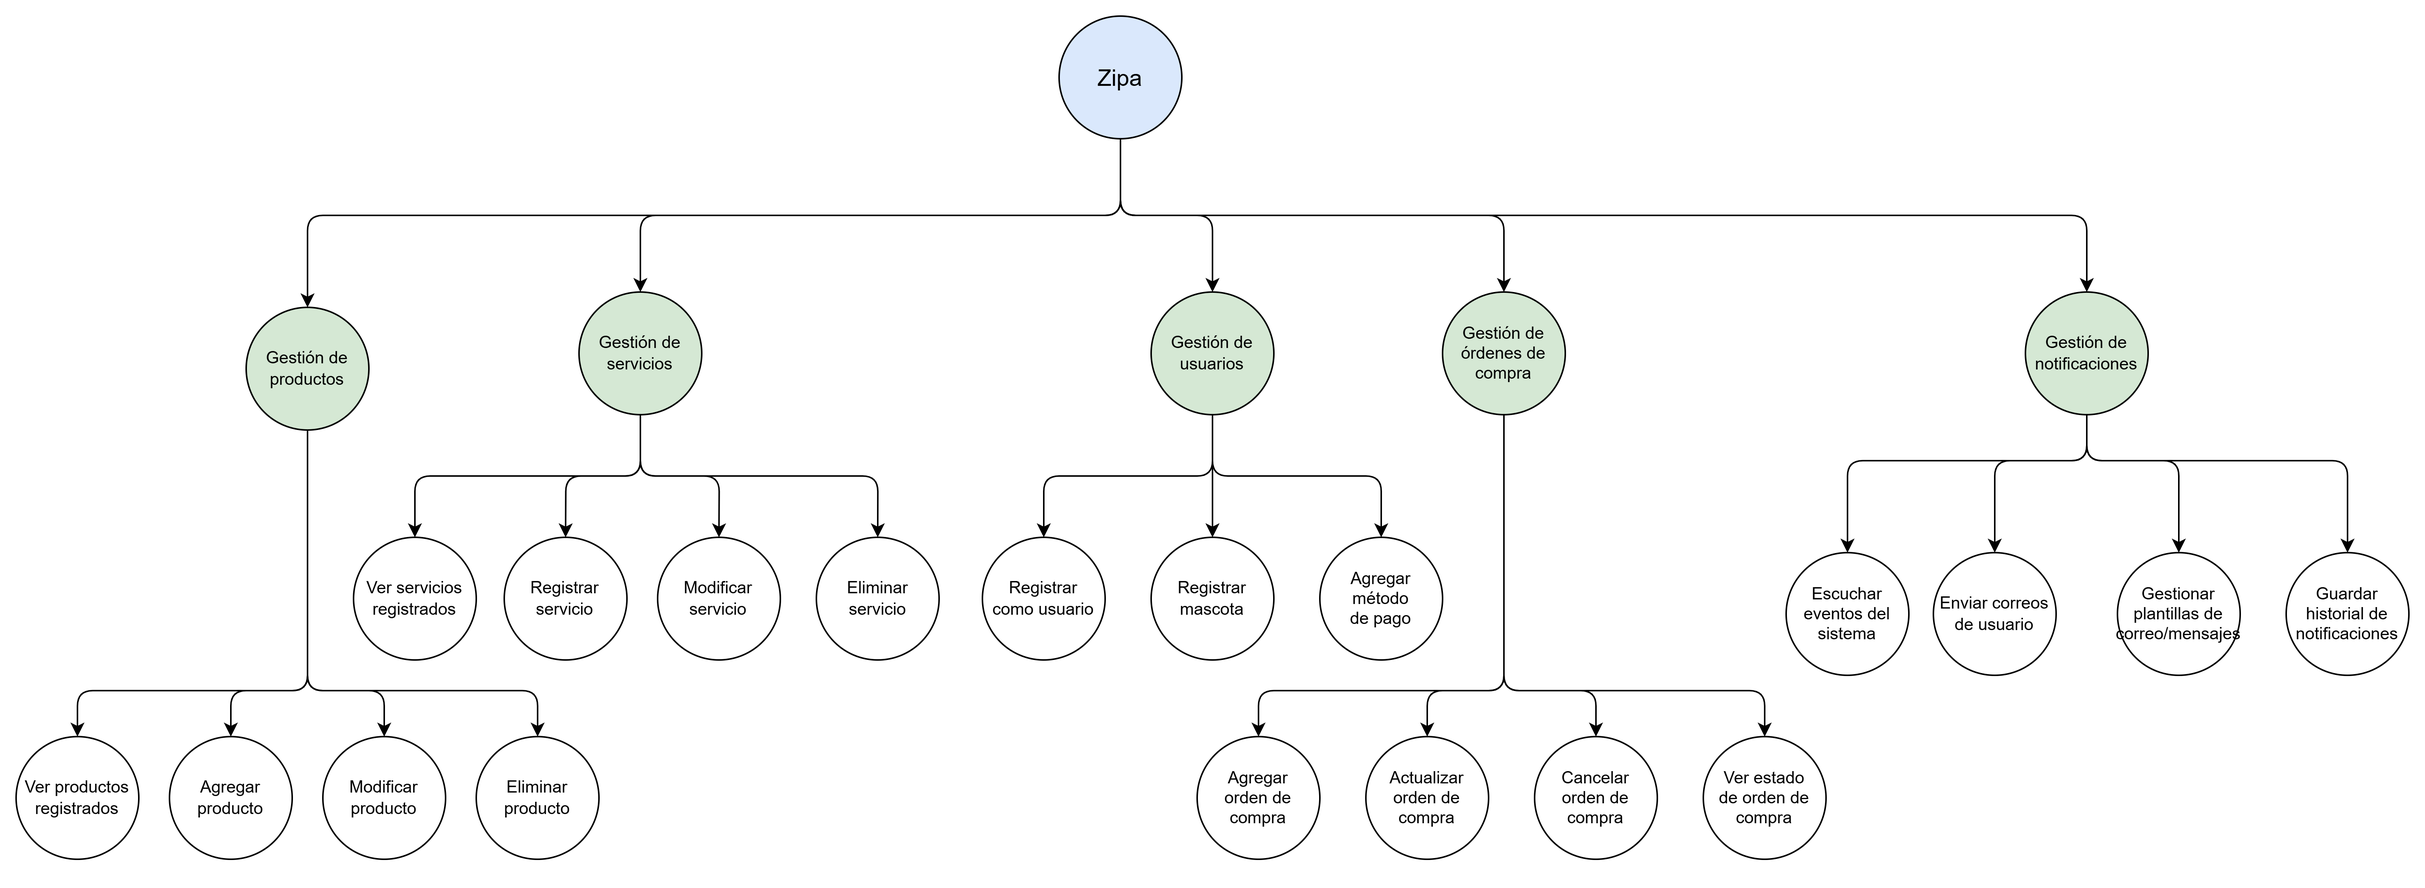
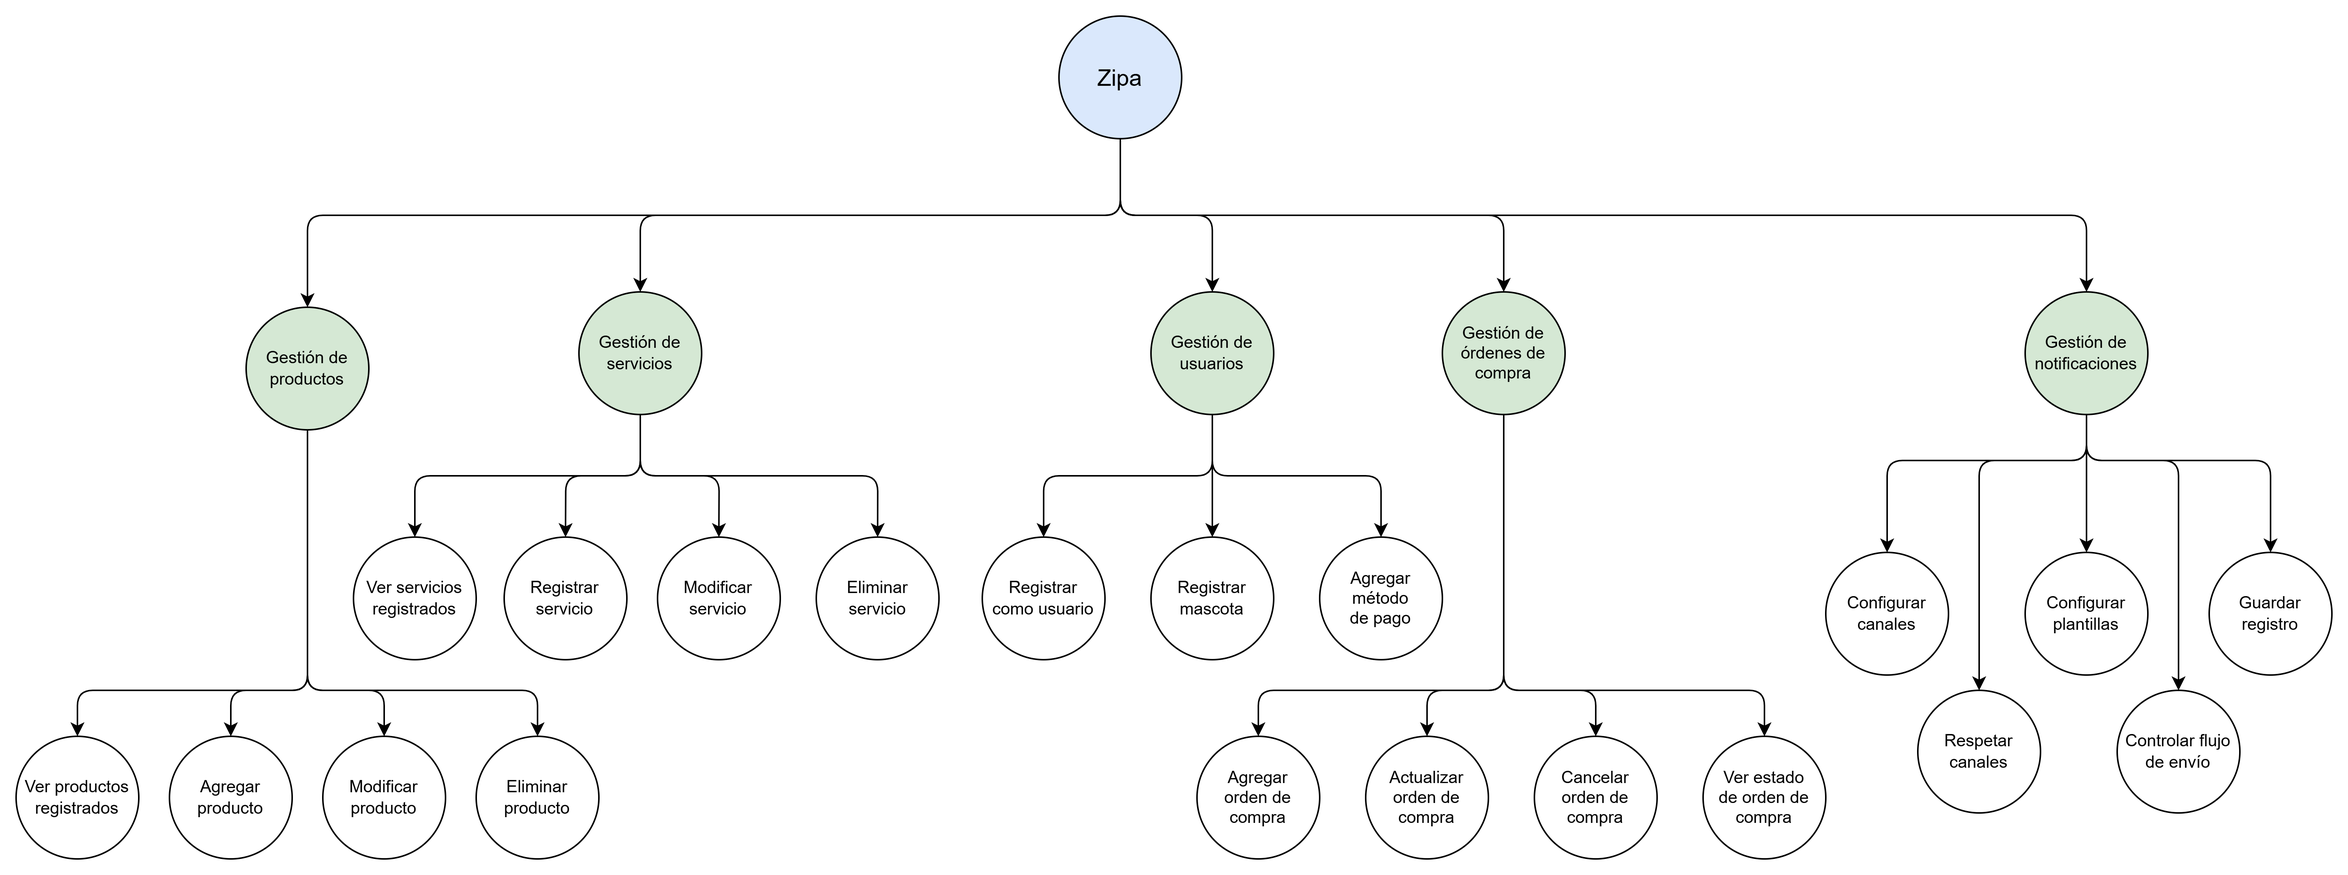
Update README.md to prototype 3 version

diff --git a/README.md b/README.md
@@ -1,205 +1,117 @@
 <div style="display: flex; justify-content: center; align-items: center;">
-  <img src="assets/Logo.png" alt="Mi logo" style="width:150px; margin-right:20px;">
+  <img src="assets/ZipaLogo.png" alt="Mi logo" style="width:150px; margin-right:20px;">
+  <h1 style="margin: 0;">Prototipo 3 - Atributos de calidad, parte 1</h2>
 </div>
 
 # Zipa: Tienda de productos y servicios para mascotas (PetShop)
+
 ## Equipo 2D
 - Diego Humberto Lavado González
+- Victor Manuel Torres Alonso
 - Fabián Alejandro Torres Ramos
 - Juan Camilo Daza Gutiérrez
 - Santiago Alfonso Pineda Ceballos
-- Victor Manuel Torres Alonso
 
 ## Descripción general
-El sistema se propone como una plataforma para la gestión de una tienda de mascotas en línea. Permite a los usuarios visualizar y crear órdenes de compra/agendamiento para una variedad de productos y servicios de veterinaria que los dueños de la tienda deseen ofrecer.
+El sistema se propone como una plataforma para la gestión de una tienda de mascotas en línea. Permite a los usuarios visualizar y crear órdenes de compra de productos y agendamiento de servicios, dentro de la variedad que hay en la tienda veterinaria, que sus propietarios deseen ofrecer.
 
-Se contempla para este prototipo la administración de perfiles de usuario, la gestión de inventario de la tienda, la gestión de servicios como peluquería, baño, corte de uñas, etc., la creación de órdenes de compra por parte de usuarios y el control de notificaciones al usuario en caso de cambios en inventario o disponibilidad. Cuenta con interfaz de usuario tanto web como móvil.
+Se contempla para este tercer prototipo la implementación de varios requerimientos no funcionales, principalmente en lo concerniente a calidad y seguridad.  En relación a las funcionalidades de seguridad del sistema ZIPA se han incorporado los patrones como canal seguro, proxy inverso, segmentación a nivel de red y firewall de aplicaciones web.
 
-## Descripción de arquitectura
-El siguiente es el rediseño de la arquitectura del proyecto ZIPA expresado en las 4 vistas requeridas de:
-1. Componentes y Conectores
-2. Despliegue
-3. Capas
-4. Descomposición
+En relación a atributos de calidad se ha incorporado un balanceador de carga mediante software basado en el algoritmo de round-robin y se han realizado varias pruebas de carga y estrés al sistema ZIPA.
 
-En cuanto a lenguajes de programación de propósito general se incorporaron los siguientes:
-- TypeScript para la mayoría de componentes y el front-end web
-- Go para el componente Zipa_OrdenesCompra
-- Python para el componente orquestador (API Gateway)
-- Kotlin para el front-end móvil
 
-El front-end web implementa SSR (Server-Side Rendering) mediante el framework de Nuxt, el cual automáticamente utiliza Vue.js como una capa adicional de renderizado al cliente y la cual se _hidrata_ al recibir interacciones.
+##  Elementos arquitectónicos
+### Estructura de componentes y conectores.
 
-# Arquitectura
 
-## Vista de componentes y conectores
 <div style="display: flex; justify-content: center; align-items: center;">
   <img src="assets/C&C_view.png" style="width:1500px;">
 </div>
 
-### Estilo Arquitectónico
-Se hace uso de una arquitectura basada en SOFEA, que divide el sistema en servicios, con su respectiva separación entre frontend y backend. En concreto este prototipo implementa los dos servicios esenciales, **inventario** y **servicios**, incluyendo frontend, backend y bases de datos. Dichos componentes están resaltados en **verde** en el diagrama.
+### Descripción de los elementos arquitectónicos y sus relaciones.
 
+A nivel de presentación se tiene clientes web y móvil (Zipa_UI, Zipa_MobileUI) que se conectan por HTTP al borde, exponiendo la interfaz de usuario y consumiendo APIs; actúan como consumidores de servicios REST.
+En seguridad hay un proxy inverso (Zipa_ReverseProxy) que centraliza TLS/terminación y enrutamiento hacia el Zipa_APIGateway, aplicando políticas de seguridad y balanceo.
+Como puerta de enlace se tiene a Zipa_APIGateway que orquesta llamadas sincronicas HTTP/REST hacia los servicios de dominio (Inventario, Servicios, Notificaciones, Auth, OrdenesCompra) y normaliza contratos y versiones.
+En el componente asíncrono se tienen servicios independientes que implementan lógica de negocio y publican/consumen eventos vía Zipa_Broker para notificaciones y desacoplamiento eventual.
+En persistencia cada servicio tiene su almacenamiento dedicado (relacional o documental) que incluye Redis para tokens, garantizando propiedad de datos, escalabilidad y autonomía de despliegue.
 
-### Identificación de elementos arquitectónicos
-- 5 Componentes y 4 conectores
+### Descripción de los estilos arquitectónicos y patrones usados.
 
+Servicios SOA autónomos y acoplados débilmente con responsabilidad definida por dominio y almacenamiento propio.
+Arquitectura en capas (presentación → gateway → lógica → datos) con proxy inverso y API Gateway para enrutamiento, seguridad y agregación.
+Patrón broker para eventos asíncronos, notificaciones y desacoplamiento eventual; comunicación síncrona por REST cuando se necesita.
 
-### Relaciones entre Componentes
-
-- **Gestión de servicios ↔ Historial de servicios:**  
-  El componente de Gestión de Servicios se conecta a la BD MongoDB usando el protocolo TCP para operaciones de persistencia sobre los datos NoSQL.
-
-- **Gestión de Inventario ↔ Productos:**  
-  El componente de Gestión de Inventarios se conecta al servidor de PosgresQL usando el protocolo TCP para operaciones de persistencia con los datos SQL.
-
-- **User Interface ↔ Gestión de servicios:**  
-  El cliente web consume la API GraphQL expuesta por el componente de Gestión de servicios a través de HTTP en el puerto 8000.
-
-- **User Interface ↔ Gestión de Inventario:**  
-  El cliente web consume la API REST expuesta por el componente de Gestión de Inventario a través de HTTP en el puerto 8001.
-
-## Vista de capas
-<div style="display: flex; justify-content: center; align-items: center;">
-  <img src="assets/Layers_view.png" style="width:1500px;">
-</div>
-
-Siguiendo la forma en la que los componentes están estructurados se divide el sistema en 5 capas físicas (_tiers_):
-1. Capa de presentación: Contiene a los dos componentes de frontend, con los que interactúa el usuario.
-2. Capa de comunicación: Contiene al componente orquestador, que actúa como punto de entrada a todas las peticiones que se realicen desde el frontend.
-3. Capa de lógica: Contiene a los componentes de lógica de negocio.
-4. Capa de comunicación asíncrona: Contiene al componente de mensajería que utilizan los componentes lógicos para comunicarse con el componente de notificaciones.
-5. Capa de datos: Contiene a las bases de datos y asegura su persistencia.
-
-Varios de los componentes también cuentan con capas lógicas (_layers_) para organizar su funcionamiento:
-- El componente Zipa_UI cuenta con SSR, el cual se representa con dos capas lógicas para los elementos de frontend renderizados de lado del cliente como de lado del servidor.
-- Los componentes lógicos y el API Gateway cuentan con controlador (para exponer su interfaz), servicio (que contiene la lógica) y repositorio (para conectar con una base de datos cuando aplica).
-
-## Vista de despliegue
+### Estructura de despliegue
 
 <div style="display: flex; justify-content: center; align-items: center;">
   <img src="assets/Deployment_view.png" style="width:1500px;">
 </div>
 
-###  Estructura General del Entorno
+### Descripción de los elementos arquitectónicos y sus relaciones.
 
-El sistema está desplegado en un **servidor local**, donde cada componente opera como un contenedor independiente:
-
-- **Red interna Docker:** permite la comunicación entre servicios usando el puerto común `27017`.
-- **Bases de datos externas:** PostgreSQL, MongoDB y Redis se ejecutan en contenedores separados, enlazados con sus respectivos servicios API.
-
----
-
-####   Frontend
-
-| Componente | Descripción | Puerto |
-|-------------|-------------|--------|
-| **front_web** | Interfaz web construida con Node.js que sirve la aplicación del cliente. | 3000 |
-| **front_mobile** | Aplicación móvil desplegada en un emulador Android, conectada al mismo entorno local. | — |
-
----
-
-####    Backend (Microservicios)
-
-| Servicio | Imagen base | Puerto | Descripción |
-|-----------|--------------|--------|--------------|
-| **inventory_api** | `node:20-alpine` | 8005 | Gestiona productos, stock y categorías del inventario. |
-| **servicios_api** | `node:20-alpine` | 8008 | Maneja los servicios para mascotas (baño, guardería, veterinaria). |
-| **user_api** | `node:20-alpine` | 8009 | Gestiona usuarios, autenticación y roles. |
-| **buyorder_api** | `node:20-alpine` | 8004 | Controla pedidos y órdenes de compra. |
-| **notifications** | `node:20-alpine` | 8010 | Administra las notificaciones asincrónicas hacia los usuarios y administradores. |
-| **api_gateway** | `python:3.11-slim` | 8006 | Orquesta las peticiones entre los microservicios y expone los endpoints unificados hacia el cliente. |
-
----
-
-####    Bases de Datos Asociadas
-
-| Servicio | Imagen | Puerto | Asociado a |
-|-----------|---------|--------|-------------|
-| **postgres_db** | `postgres:15` | 8000 | Servicios generales del sistema. |
-| **mongo_services** | `mongo:7` | 8001 | Módulo de servicios de mascotas. |
-| **postgres_user_db** | `postgres:15` | 8002 | Módulo de usuarios. |
-| **postgres_order_db** | `postgres:15` | 8003 | Módulo de órdenes y compras. |
-| **notlf_db** | `postgres:15` | 8011 | Módulo de notificaciones. |
-| **redis_user_service** | `redis:7` | 8007 | Cacheo y sesiones del servicio de usuarios. |
-
----
-
-####    Conectividad y Red
-
-- Todos los contenedores se comunican dentro de una **red Docker interna** (`27017`).
-- Cada microservicio se conecta únicamente con su base de datos correspondiente.
-- El **API Gateway** actúa como punto de entrada para el frontend, delegando las solicitudes a los microservicios.
-- **Redis** se utiliza como sistema de almacenamiento en memoria para mejorar el rendimiento y manejo de sesiones.
-
----
-
-####    Tecnologías Principales
-
-- **Node.js (v20)** → Backend de los microservicios principales.  
-- **Python 3.11 (Slim)** → API Gateway.  
-- **PostgreSQL 15** → Bases de datos relacionales.  
-- **MongoDB 7** → Almacenamiento de datos no estructurados.  
-- **Redis 7** → Cache y manejo de sesiones.  
-- **Docker Compose** → Orquestación y despliegue de contenedores.
-
----
+Es una vista de arquitectura de servicios contenedorizada, que muestra la distribución física de los componentes sobre la infraestructura local. Los nodos de ejecución son contenedores Docker que representan unidades de despliegue servicios junto con bases de datos. Los artefactos desplegados se ejecutan sobre un servidor local host.
+Las relaciones se modelan como conexiones de red internas (Docker network : 27017) y exposiciones de puertos al host (8000–9000). Se incluyen clientes externos (front_web, front_mobile) que interactúan con los servicios mediante endpoints HTTP.
+Se trata de una vista de despliegue de 
 
 
+### Descripción de los patrones arquitectónicos usados.
 
-## Vista de descomposición
+Vista de despliegue de una arquitectura basada en microservicios, donde cada componente funcional del sistema se implementa como un contenedor independiente dentro de un entorno Docker. Cada servicio se asocia a su propia base de datos, aplicando el patrón de persistencia por servicio. La comunicación entre los contenedores ocurre mediante una red interna de Docker, garantizando aislamiento y control del tráfico. El API Gateway centraliza la entrada de solicitudes, actuando como punto de acceso unificado para los microservicios y gestionando el enrutamiento hacia ellos. Los frontends web y móvil se ejecutan externamente y acceden al ecosistema a través de puertos expuestos en el servidor local. Este enfoque refleja el uso de contenerización e infraestructura inmutable para asegurar despliegues reproducibles y consistentes. La separación clara entre las capas de presentación, lógica y datos refuerza la modularidad del sistema. Asimismo, el uso de imágenes livianas optimiza los recursos del entorno local. En conjunto, la vista ilustra un despliegue típico de arquitectura de microservicios orquestada en un único host mediante Docker Compose.
+
+### Estructura de capas
+
+
+<div style="display: flex; justify-content: center; align-items: center;">
+  <img src="assets/Layers_view.png" style="width:1500px;">
+</div>
+
+### Descripción de los elementos arquitectónicos y sus relaciones.
+
+Esta vista por capas muestra la de presentación (Zipa_UI, Zipa_MobileUI) que invoca al Zipa_APIGateway en la capa de comunicación; el Gateway enruta y orquesta llamadas hacia los microservicios de la capa de lógica (Zipa_Inventario, Zipa_Servicios, Zipa_Auth, Zipa_OrdenesCompra, Zipa_Notificaciones), donde cada servicio tiene internamente controlador → servicio → repositorio y persiste en su almacén dedicado. La capa de comunicación asíncrona está representada por un Broker (RabbitMQ) usado por los servicios para publicar/consumir eventos, y la capa de datos agrupa las bases (Postgres/Mongo/Redis) que sirven como persistencia por servicio.
+
+### Descripción de los patrones arquitectónicos usados.
+
+Se aplican los patrones de arquitectura de capas y microservicios con separación de responsabilidades; un API Gateway central para entrada y enrutamiento; patrón interno controller–service–repository en cada servicio para organización y acceso a datos; pub/sub mediante Broker para comunicación asincrónica y desacoplamiento eventual; y persistencia políglota (database-per-service) para autonomía y escalado independiente.
+
+### Estructura de descomposición
+
 
 <div style="display: flex; justify-content: center; align-items: center;">
   <img src="assets/Decomp_view.png" style="width:1500px;">
 </div>
 
-### Elementos y Relaciones Arquitectónicas
+### Descripción de los elementos arquitectónicos y sus relaciones.
 
-#### **Módulo de Gestión de Productos**
-**Propósito:** Administra todas las operaciones relacionadas con los productos disponibles en la plataforma, permitiendo su control, visualización y mantenimiento.  
-**Funciones principales:** Incluye la visualización de los productos registrados, la adición de nuevos productos, la modificación de información existente y la eliminación de productos obsoletos o inactivos.  
-**Relaciones:** Se comunica con el Módulo de Órdenes de Compra para validar la disponibilidad de productos en los procesos de compra y con el Módulo de Notificaciones para informar sobre cambios en el inventario o actualizaciones relevantes.
+Esta vista de descomposición muestra a Zipa desglosado en subsistemas funcionales como son Gestión de productos (ver, agregar, modificar, eliminar), Gestión de servicios (listar, registrar, modificar, eliminar), Gestión de usuarios (registrar usuario, registrar mascota, registrar métodos de pago), Gestión de órdenes de compra (agregar, actualizar, cancelar, consultar estado) y Gestión de notificaciones (escuchar eventos, enviar correos, gestionar plantillas, guardar historial). Cada subsistema expone operaciones o casos de uso concretos y se conecta conceptualmente con el resto mediante llamadas a funciones/servicios y eventos del sistema, de modo que las acciones del dominio fluyen desde el nodo raíz hacia las hojas funcionales.
+La vista aplica patrones de descomposición por dominio y vertical slicing (cada módulo encapsula sus casos de uso y CRUD asociados), enfatiza separación de responsabilidades y cohesion alta dentro de cada subsistema, y usa pub/sub para la gestión de notificaciones como mecanismo de desacoplamiento. Es coherente con enfoques DDD/ bounded-context y con microservicios/servicios autónomos en cuanto cada área puede implementarse y desplegarse de forma independiente.
 
----
+## Atributos de calidad
+### Seguridad
 
-#### **Módulo de Gestión de Servicios**
-**Propósito:** Gestiona los servicios ofrecidos dentro del ecosistema de Zipa, como atención veterinaria, aseo, hospedaje o paseos.  
-**Funciones principales:** Permite registrar, modificar y eliminar servicios, así como consultar los servicios activos en la plataforma.  
-**Relaciones:** Interactúa con el Módulo de Usuarios para vincular los servicios con sus prestadores y clientes, y con el Módulo de Notificaciones para comunicar confirmaciones o recordatorios sobre la reserva o modificación de servicios.
+Escenario 1: Canal Seguro
 
----
+![](assets/Security_scenario_1.png)
 
-#### **Módulo de Gestión de Usuarios**
-**Propósito:** Administra el registro, autenticación y mantenimiento de la información de los usuarios, incluyendo clientes, administradores y proveedores.  
-**Funciones principales:** Permite registrar usuarios, registrar mascotas asociadas y agregar métodos de pago para facilitar las transacciones dentro del sistema.  
-**Relaciones:** Se comunica con el Módulo de Órdenes de Compra para asociar la identidad del comprador con sus transacciones, y con el Módulo de Notificaciones para enviar alertas, correos de confirmación o mensajes relacionados con la cuenta del usuario.
+Escenario 2: Segmentación de Red
 
----
+![](assets/Security_scenario_2.png)
 
-#### **Módulo de Gestión de Órdenes de Compra**
-**Propósito:** Controla el flujo completo de las órdenes de compra, desde su creación hasta su actualización o cancelación, garantizando la integridad de los datos y la trazabilidad de las transacciones.  
-**Funciones principales:** Permite agregar nuevas órdenes, actualizar información existente, cancelar operaciones y consultar el estado actual de cada orden.  
-**Relaciones:** Depende de los módulos de Productos, Servicios y Usuarios para obtener información necesaria durante la creación o actualización de órdenes. Se comunica con el Módulo de Notificaciones para enviar confirmaciones, actualizaciones y avisos sobre el estado de las órdenes.
+Escenario 3: Proxy Inverso
 
----
+![](assets/Security_scenario_3.png)
 
-#### **Módulo de Gestión de Notificaciones**
-**Propósito:** Centraliza la gestión de todos los eventos comunicativos del sistema, garantizando que los usuarios y los servicios reciban notificaciones en tiempo real o de forma diferida según corresponda.  
-**Funciones principales:** Escucha los eventos generados por otros módulos del sistema, envía correos electrónicos a los usuarios, gestiona plantillas de mensajes y mantiene un historial de notificaciones.  
-**Relaciones:** Recibe información de todos los módulos funcionales mediante comunicación asíncrona o eventos internos, con el fin de enviar alertas, confirmaciones y recordatorios. Opera de forma desacoplada para no interferir con los procesos principales del sistema.
+Escenario 4: Uso de JWT
 
----
+![](assets/Security_scenario_4.png)
 
-#### **Relaciones Generales entre Módulos**
-- **Usuarios ↔ Órdenes:** asociación de identidad, medios de pago y control de transacciones.  
-- **Productos / Servicios ↔ Órdenes:** vinculación de elementos seleccionados con el flujo de compra o reserva.  
-- **Órdenes ↔ Notificaciones:** envío de confirmaciones y actualizaciones del estado de las órdenes.  
-- **Global ↔ Notificaciones:** todos los módulos pueden emitir eventos que desencadenan notificaciones, lo cual refuerza la comunicación asincrónica y la independencia funcional.
+### Rendimiento y escalabilidad
 
+Escenario 1: Balanceador de carga
 
-# Instrucciones para despliegue del software de manera local
+![](assets/Performance_scenario_1.png)
 
-## Requisitos previos
+## Requisitos previos de instalación
 1. **Git** instalado y accesible desde la terminal.
 2. **Docker** y **Docker Compose** instalados y configurados correctamente.
 3. **WSL** instalado si el sistema se ejecutará en Windows.
@@ -208,28 +120,31 @@ El sistema está desplegado en un **servidor local**, donde cada componente oper
 
 ### 1. Clonar el repositorio con submódulos
 
-```bash
 HTTPS:
+```bash
 git clone --recurse-submodules https://github.com/ZipaApp/ZipaRaiz.git
 ```
-```bash
+
 SSH:
+```bash
 git clone --recurse-submodules git@github.com:ZipaApp/ZipaRaiz.git
 ```
-### 2. Construir y montar el contenedor en docker
 
-Comando básico:
+###  2. Construir y montar el contenedor en docker
+
+Construcción inicial:
 ```bash
 docker compose up --build
 ```
 
-Comando con múltiples réplicas para `api-gateway`:
+Construcción con múltiples réplicas para el `api-gateway`:
 ```bash
 docker compose up --build --scale api-gateway=3
 ```
 
 ### 3. Actualizar submódulos si es necesario
-Para actualizar las referencias a los últimos commit:
+
+Para actualizar a los últimos commit de cada submódulo:
 ```bash
 git submodule update --remote
 ```
